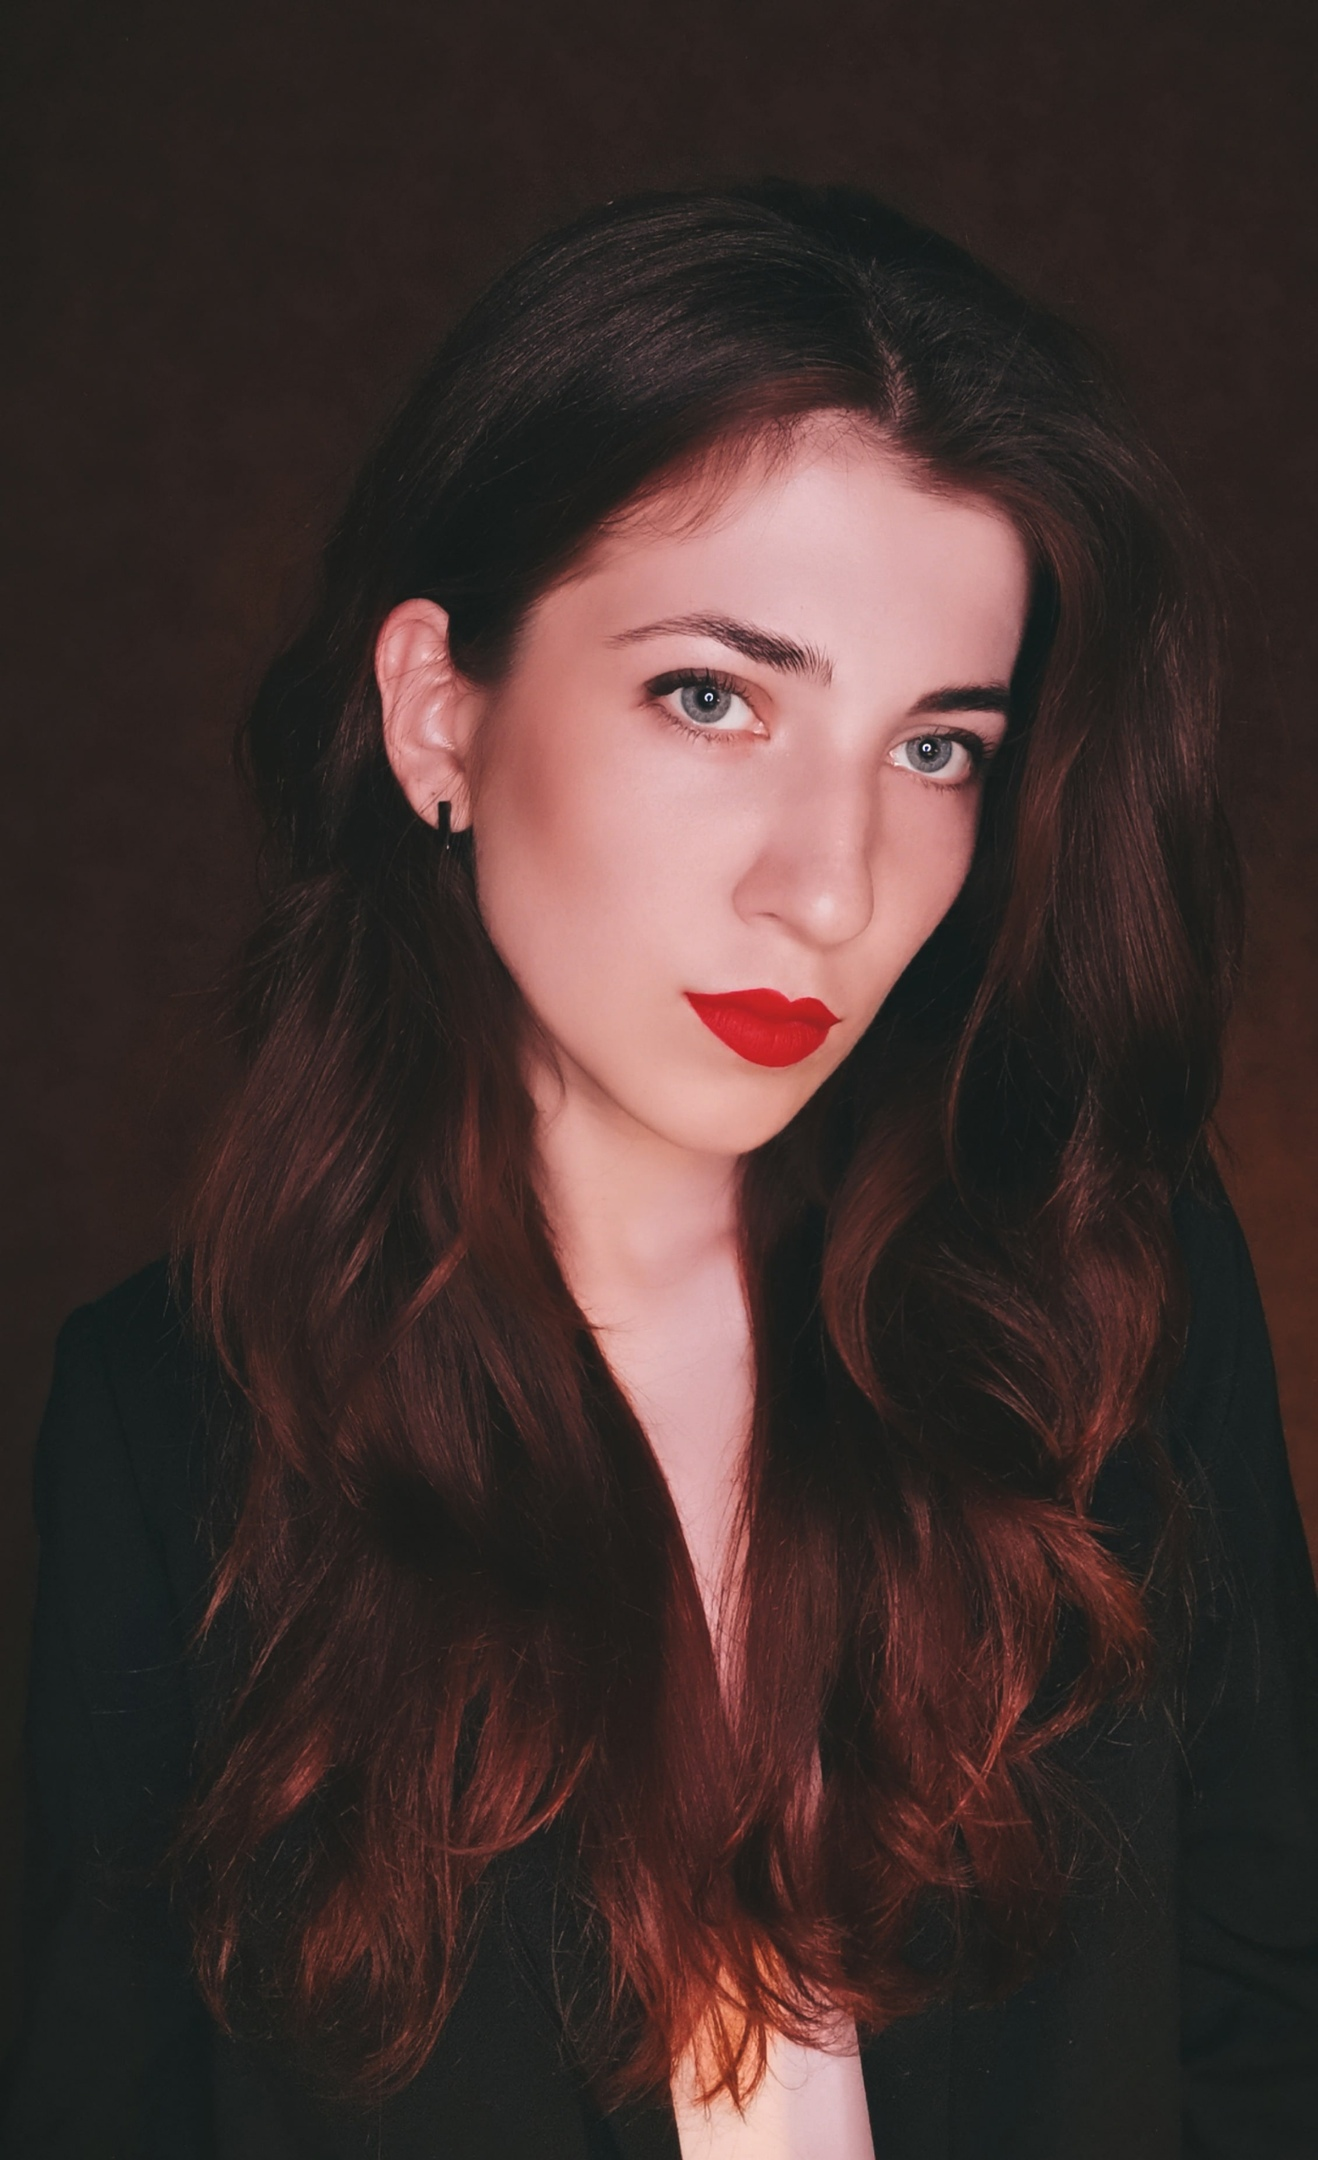
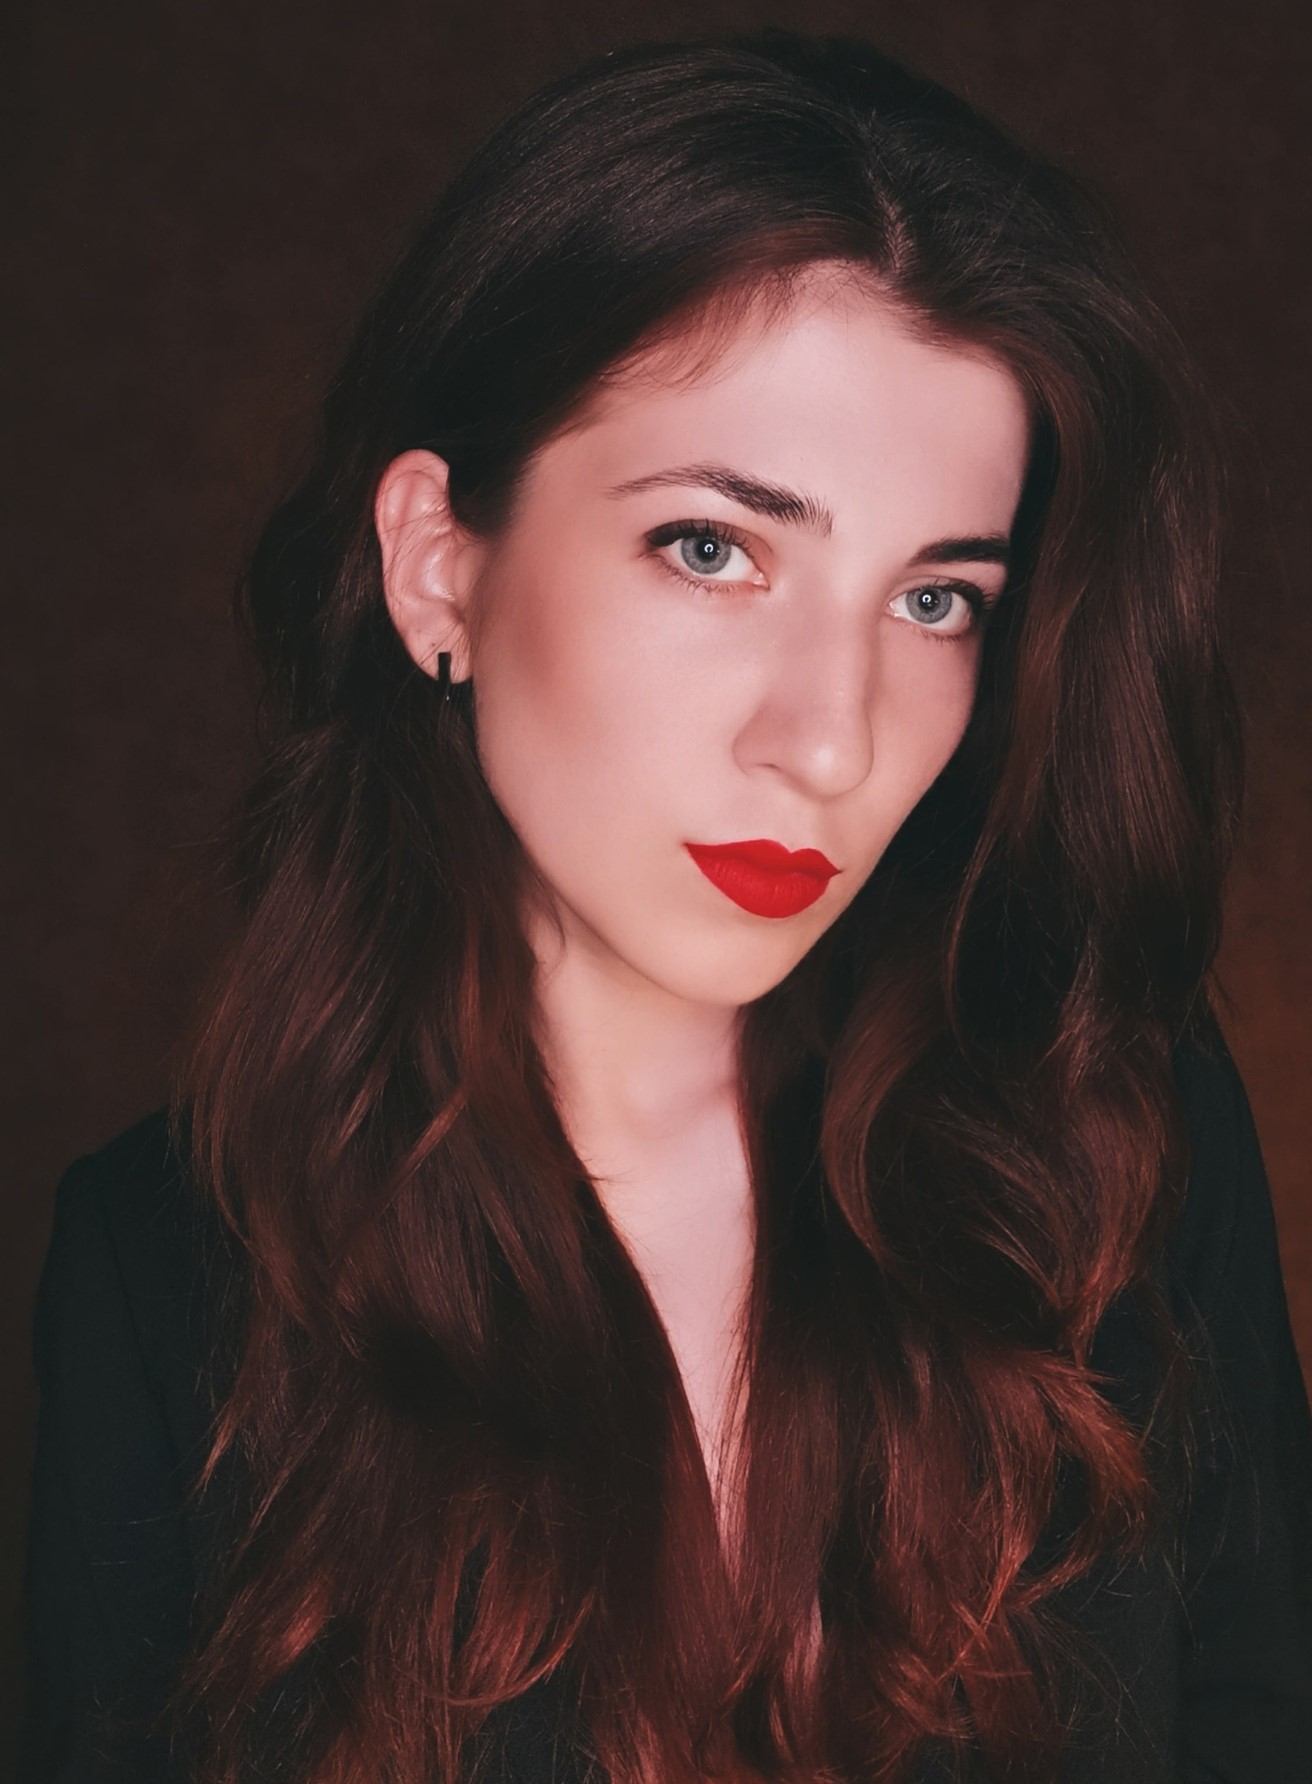
добавлены секции about me, skills

diff --git a/index.html b/index.html
@@ -24,21 +24,70 @@
                             </ul>
                         </nav>
                     </header>
-                    <hr class="line">
-                    <div class="hero__section">
-                        <h1 class="hero__title-main">Veretyushkina Victoria</h1>
-                        <div class="hero__title-desc">Fronted developer 25 years old, Belgorod</div>
+                    <div class="line"></div>
+                    <div class="hero__title-section">
+                        <h1 class="hero__main-title">Veretyushkina Victoria</h1>
+                        <div class="hero__desc-title">Fronted developer 25 years old, Belgorod</div>
                     <div class="lang">
-                    <ul class="lang__list">
-                        <li class="lang__item"><a href="/" class="lang__link">RU</a></li>
-                        <li class="lang__item"><a href="/" class="lang__link lang__link--active">ENG</a></li>
-                    </ul>
+                        <ul class="lang__list">
+                            <li class="lang__item"><a href="/" class="lang__link">RU</a></li>
+                            <li class="lang__item"><a href="/" class="lang__link lang__link--active">ENG</a></li>
+                        </ul>
                     </div>
                     </div>
-                    <div class="avatar"><img src="./img/avatar.jpg" alt="my photo"></div>
+                    <div class="avatar">
+                        <img class="avatar__img" src="./img/avatar.jpg" alt="my photo">
+                    </div>
             </div>
             </section>
+<section class="about">
+    <div class="container">
+        <div class="about__title-section">
+        <h2 class="main__title main__title--grey-theme">About me</h2>
+        <article class="about__text">
+<p>Hi, I'm Victoria - fronted developer from Belgorod. </p>
+    <p>I am interested in fronted development and everything connected with it.</p>
+        <p>I am self-taught in this profession. I use information from courses on YouTube, articles, books, etc.</p>
+            <p>I have skills in HTML, CSS, GIT, SASS, FLEXBOX, BEM, adaptive layout, JavaScript in the learning process.</p>
+                <p>Ready for great projects with wonderful people.</p>
+        </article>
+    </div>
+</section>
+<section class="skills">
+    <div class="container skills__container">
+        <div class="skills__title-section">
+        <h2 class="main__title">Skills</h2>
+        <div class="desc__title">I have the skills to work</div>
+            <ul class="skills">
+                <li class="skills__item skill">
+                    <img src="./img/icon/html.png" alt="HTML" class="skill-img">
+<div class="rating">
+    <div class="rating__items">
+        <input id="rating__5" type="radio" class="rating__item" name="rating" value="5">
+        <label for="rating__5" class="rating__label"></label>
+        <input id="rating__4" type="radio" class="rating__item rating__item--active" name="rating" value="4">
+        <label for="rating__4" class="rating__label"></label>
+        <input id="rating__3" type="radio" class="rating__item" name="rating" value="3">
+        <label for="rating__3" class="rating__label"></label>
+        <input id="rating__2" type="radio" class="rating__item" name="rating" value="2">
+        <label for="rating__2" class="rating__label"></label>
+        <input id="rating__1" type="radio" class="rating__item" name="rating" value="1">
+        <label for="rating__1" class="rating__label"></label>
+    </div>
+</div>
+                </li>
+                <li class="skills__item skill">
+                    <img src="./img/icon/css.png" alt="CSS" class="skill-img">
 
+                </li>
+                <li class="skills__item skill">
+                    <img src="./img/icon/javascript.png" alt="JS" class="skill-img">
+
+                </li>
+            </ul>
+        </div>
+    </div>
+</section>
         </div>
     </div>
 </body>

diff --git a/css/blocks/main.css b/css/blocks/main.css
@@ -28,7 +28,8 @@ html {
   
   .container {
     width: 95%;
-    max-width: 940px;
+    max-width: 1000px;
+    max-height: 1000px;
     margin: 0 auto;
     position: relative;
   }
@@ -78,20 +79,33 @@ html {
     max-width: 100%;
   }
 
+  .menu {
+    margin-top: 25px;
+  }
   .menu__list {
     display: flex;
     justify-content: space-between;
   }
 
   .menu__link {
+    color: #828282;
     text-decoration: none;
   }
 
+  .menu__link:hover {
+    color: black;
+  }
+
   .menu__link--active {
+    color: black;
     font-weight: bold;
   }
 
-  .hero__section {
+  .hero {
+    margin-bottom: 100px;
+  }
+
+  .hero__title-section {
     display: flex;
     justify-content: space-between;
     align-items: center;
@@ -99,20 +113,22 @@ html {
     margin-top: 2%;
   }
 
-  .hero__title-main {
+  .hero__main-title {
     text-transform: uppercase;
     font-weight: bold;
+    font-size: 36px;
     width: 15%;
   }
 
-  .hero__title-desc {
+  .hero__desc-title {
     width: 11%;
     text-align: center;
   }
 
   .line {
-    border: 1px solid black;
-    background-color: black;
+    border-top: 2px solid #828282;
+    margin-top: 25px;
+    margin-bottom: 45px;
   }
 
   .lang__item {
@@ -131,7 +147,7 @@ html {
 }
 
 .lang__link {
-  color: rgb(43, 42, 42);
+  color: #828282;
   font-size: 18px;
   text-decoration: none;
 }
@@ -139,4 +155,98 @@ html {
 .lang__link--active {
   color:black;
   font-weight: bold;
+}
+
+.avatar {
+  width: 1000px;
+  height: 700px;
+  background: #828282;
+}
+
+.avatar__img {
+  width: 515px;
+  height: 700px;
+  margin: auto;
+}
+
+.about__title-section{
+  text-align: center;
+}
+
+.main__title {
+  text-transform: uppercase;
+  font-weight: bold;
+  font-size: 34px;
+}
+
+.main__title--grey-theme {
+  color: #828282;
+}
+
+p {
+  margin-bottom: 15px;
+}
+
+.skill-img {
+  width: 70px;
+  height: 70px;
+}
+
+.rating {
+  position: relative;
+  display: inline-block;
+  font-size: 20px;
+}
+
+.rating::before {
+  content: "★★★★★";
+  display: block;
+}
+
+.rating__items {
+  position: absolute;
+  width: 100%;
+  height: 100%;
+  top: 0;
+  left: 0;
+  display: flex;
+  flex-direction: row-reverse;
+  overflow: hidden;
+}
+
+.rating__item {
+  position: absolute;
+  width: 0%;
+  height: 0%;
+  top: 0;
+  left: 0;
+  opacity: 0;
+  visibility: hidden;
+}
+
+.rating__label {
+  flex: 0 0 20%;
+  height: 100%;
+  cursor: pointer;
+}
+
+.rating__label::before {
+  content: "★";
+  display: block;
+  transition: color 0.3s ease 0s;
+}
+
+.rating__item:checked,
+.rating__item:checked ~ .rating__label {
+color: #cbcaca;
+}
+
+.rating__item--active ~ .rating__label {
+  color: #cbcaca;
+  }
+
+.rating__label:hover,
+.rating__label:hover ~ .rating__label,
+.rating__label:checked ~ .rating__label:hover {
+color: #828282;
 }
